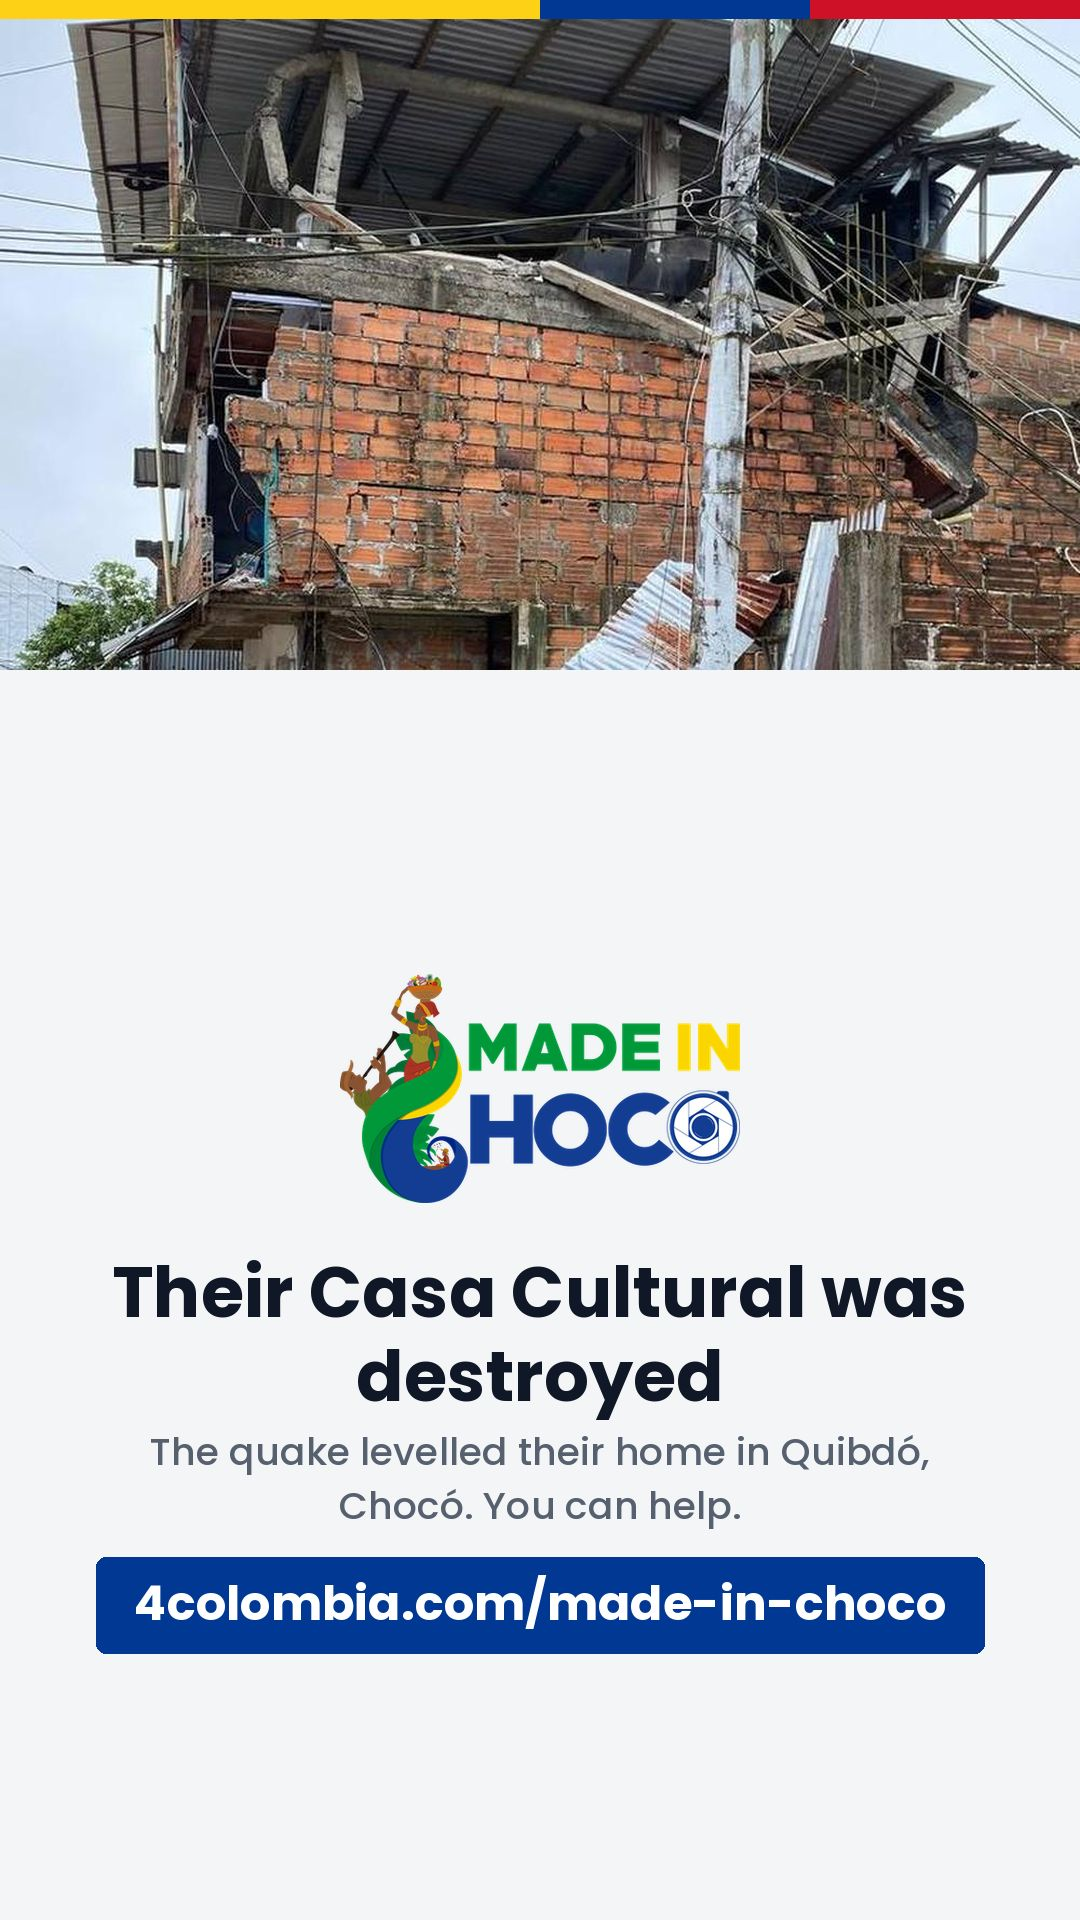
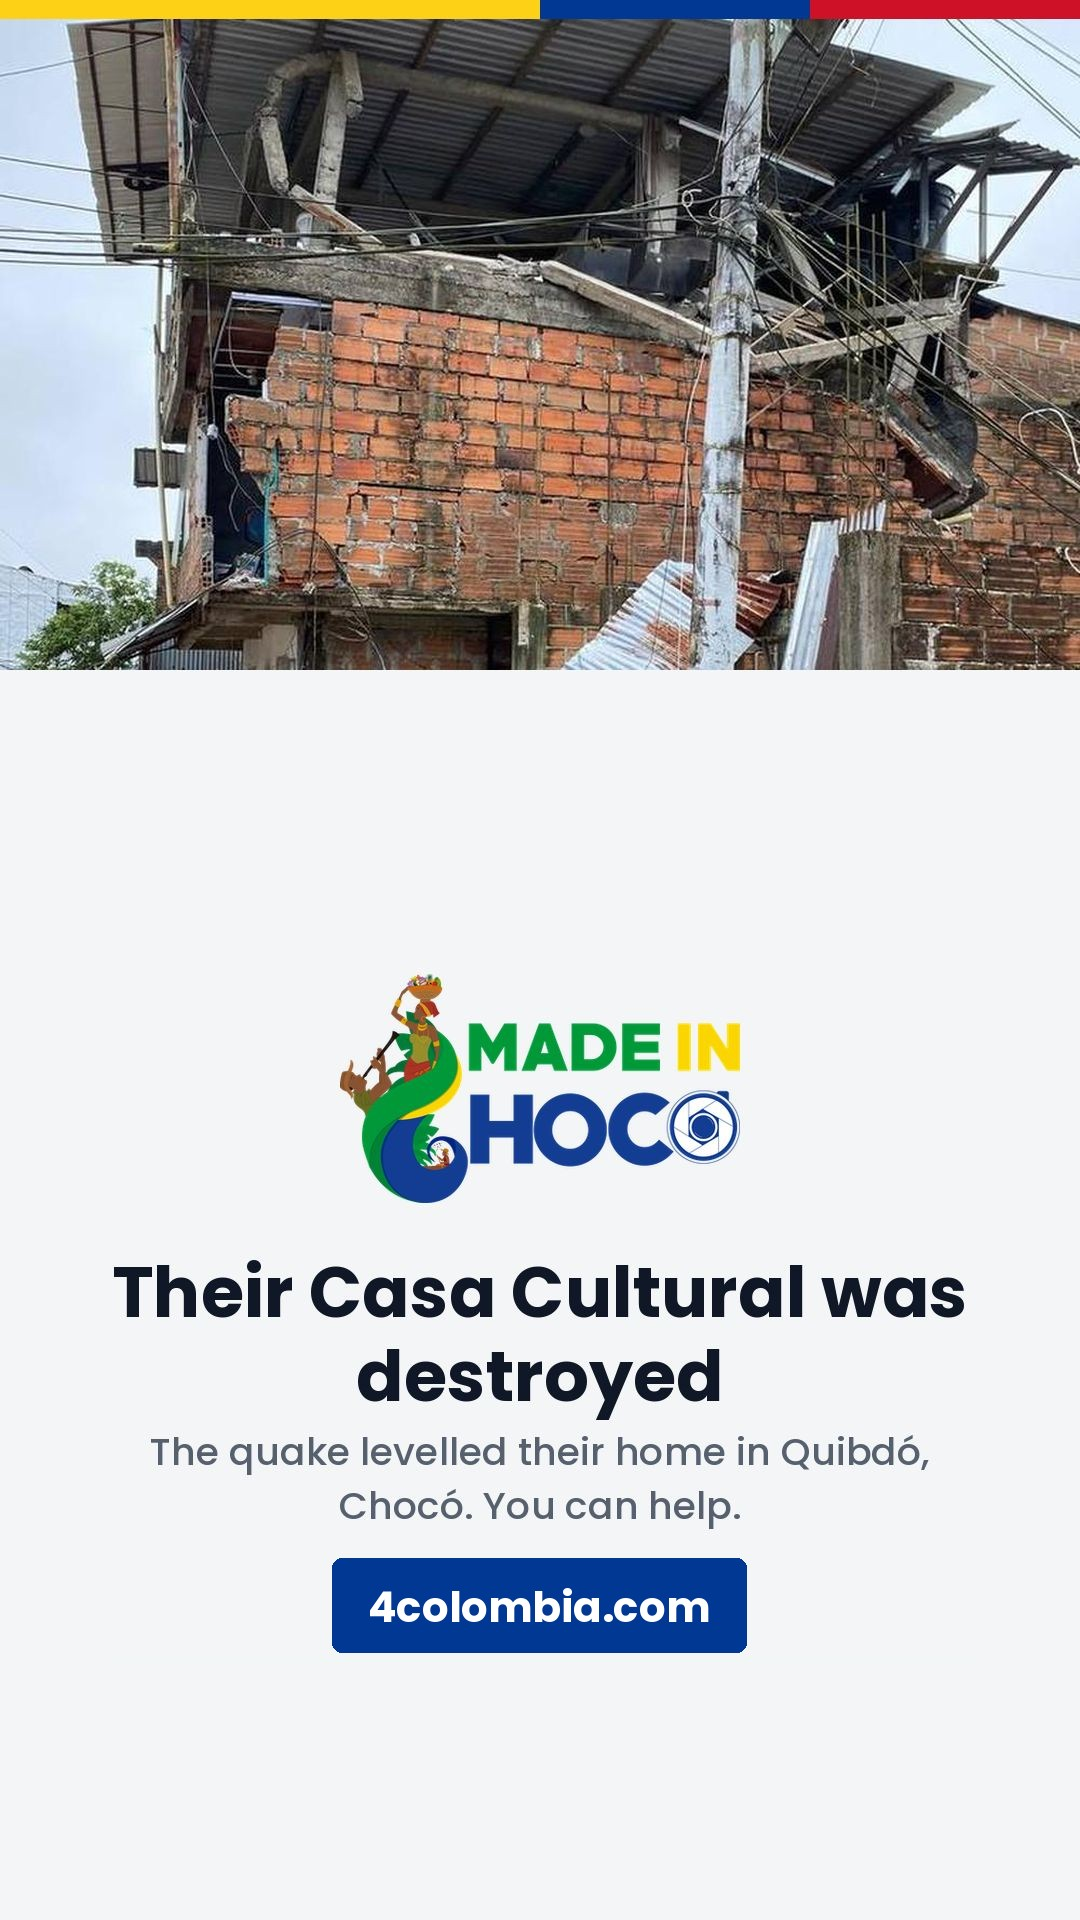
Add files via upload

Changed region(s): [[0.0917, 0.8125, 0.9167, 0.875]]

diff --git a/ayudar.html b/ayudar.html
@@ -768,8 +768,7 @@ async function compartirHistoriaCO(c, id, en, btn){
     nombre: c.nombre || '',
     texto: en ? (c.descripcion_en || c.descripcion_es || '') : (c.descripcion_es || c.descripcion_en || ''),
     logo: c.foto || null,
-    iniciales: '',
-    url: CANONICAL + '/ayudar' /* dominio limpio para el gráfico; el link con ancla va en el texto */
+    iniciales: ''
   };
 
   try{ await navigator.clipboard.writeText(urlCompleta); }catch(e){}
@@ -1201,7 +1200,7 @@ async function dibujarHistoria(d, en){
   x.fillText(en ? 'See the details and donate' : 'Conoce el caso y dona', W/2, y);
 
   y += 122;
-  const dom = d.url.replace(/^https?:\/\//,'');
+  const dom = '4colombia.com'; /* en el gráfico solo mostramos el dominio, nunca la ruta completa */
   x.font = '700 46px system-ui, -apple-system, sans-serif';
   const anchoDom = x.measureText(dom).width;
   x.fillStyle = '#003893';
@@ -1282,12 +1281,6 @@ function avisoTarjeta(btn, texto){
 
 function guardarIdioma(l){
   try{ localStorage.setItem('idioma', l); }catch(e){}
-  // Respaldo si el navegador bloquea el almacenamiento: el idioma viaja en la URL.
-  document.querySelectorAll('a[href^="/"]').forEach(a=>{
-    const u = new URL(a.getAttribute('href'), location.origin);
-    if(l==='es') u.searchParams.set('lang','es'); else u.searchParams.delete('lang');
-    a.setAttribute('href', u.pathname + u.search);
-  });
 }
 
 (function inicial(){

diff --git a/gabriel-y-concha.html b/gabriel-y-concha.html
@@ -422,12 +422,6 @@ async function copiarPago(btn, valor){
 
 function guardarIdioma(l){
   try{ localStorage.setItem('idioma', l); }catch(e){}
-  // Respaldo si el navegador bloquea el almacenamiento: el idioma viaja en la URL.
-  document.querySelectorAll('a[href^="/"]').forEach(a=>{
-    const u = new URL(a.getAttribute('href'), location.origin);
-    if(l==='es') u.searchParams.set('lang','es'); else u.searchParams.delete('lang');
-    a.setAttribute('href', u.pathname + u.search);
-  });
 }
 
 (function inicial(){

diff --git a/fuentes.html b/fuentes.html
@@ -693,12 +693,6 @@ function avisoHistoria(btn, texto){
 
 function guardarIdioma(l){
   try{ localStorage.setItem('idioma', l); }catch(e){}
-  // Respaldo si el navegador bloquea el almacenamiento: el idioma viaja en la URL.
-  document.querySelectorAll('a[href^="/"]').forEach(a=>{
-    const u = new URL(a.getAttribute('href'), location.origin);
-    if(l==='es') u.searchParams.set('lang','es'); else u.searchParams.delete('lang');
-    a.setAttribute('href', u.pathname + u.search);
-  });
 }
 
 (function inicial(){

diff --git a/index.html b/index.html
@@ -463,12 +463,6 @@ function avisoHistoria(btn, texto){
 
 function guardarIdioma(l){
   try{ localStorage.setItem('idioma', l); }catch(e){}
-  // Respaldo si el navegador bloquea el almacenamiento: el idioma viaja en la URL.
-  document.querySelectorAll('a[href^="/"]').forEach(a=>{
-    const u = new URL(a.getAttribute('href'), location.origin);
-    if(l==='es') u.searchParams.set('lang','es'); else u.searchParams.delete('lang');
-    a.setAttribute('href', u.pathname + u.search);
-  });
 }
 
 (function inicial(){

diff --git a/legal.html b/legal.html
@@ -359,12 +359,6 @@ function avisoHistoria(btn, texto){
 
 function guardarIdioma(l){
   try{ localStorage.setItem('idioma', l); }catch(e){}
-  // Respaldo si el navegador bloquea el almacenamiento: el idioma viaja en la URL.
-  document.querySelectorAll('a[href^="/"]').forEach(a=>{
-    const u = new URL(a.getAttribute('href'), location.origin);
-    if(l==='es') u.searchParams.set('lang','es'); else u.searchParams.delete('lang');
-    a.setAttribute('href', u.pathname + u.search);
-  });
 }
 
 (function inicial(){

diff --git a/made-in-choco.html b/made-in-choco.html
@@ -381,12 +381,6 @@ function avisoHistoria(btn, texto){
 
 function guardarIdioma(l){
   try{ localStorage.setItem('idioma', l); }catch(e){}
-  // Respaldo si el navegador bloquea el almacenamiento: el idioma viaja en la URL.
-  document.querySelectorAll('a[href^="/"]').forEach(a=>{
-    const u = new URL(a.getAttribute('href'), location.origin);
-    if(l==='es') u.searchParams.set('lang','es'); else u.searchParams.delete('lang');
-    a.setAttribute('href', u.pathname + u.search);
-  });
 }
 
 (function inicial(){

diff --git a/san-jose.html b/san-jose.html
@@ -381,12 +381,6 @@ function avisoHistoria(btn, texto){
 
 function guardarIdioma(l){
   try{ localStorage.setItem('idioma', l); }catch(e){}
-  // Respaldo si el navegador bloquea el almacenamiento: el idioma viaja en la URL.
-  document.querySelectorAll('a[href^="/"]').forEach(a=>{
-    const u = new URL(a.getAttribute('href'), location.origin);
-    if(l==='es') u.searchParams.set('lang','es'); else u.searchParams.delete('lang');
-    a.setAttribute('href', u.pathname + u.search);
-  });
 }
 
 (function inicial(){

diff --git a/catalina-munoz.html b/catalina-munoz.html
@@ -361,11 +361,6 @@ function avisoHistoria(btn, texto){
 
 function guardarIdioma(l){
   try{ localStorage.setItem('idioma', l); }catch(e){}
-  document.querySelectorAll('a[href^="/"]').forEach(a=>{
-    const u = new URL(a.getAttribute('href'), location.origin);
-    if(l==='es') u.searchParams.set('lang','es'); else u.searchParams.delete('lang');
-    a.setAttribute('href', u.pathname + u.search);
-  });
 }
 
 (function inicial(){
